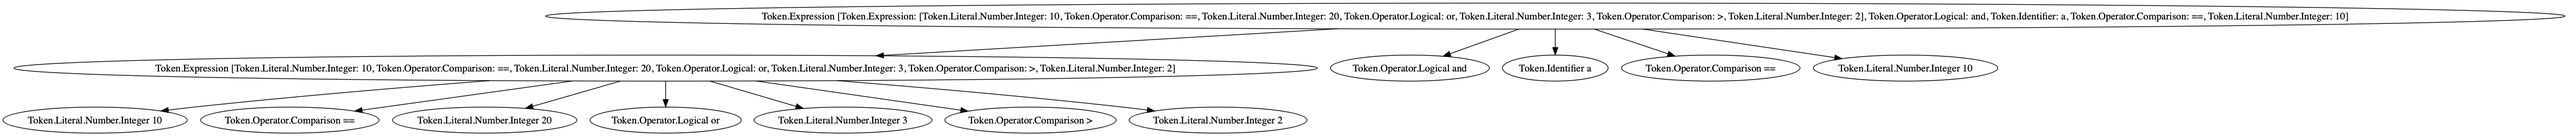
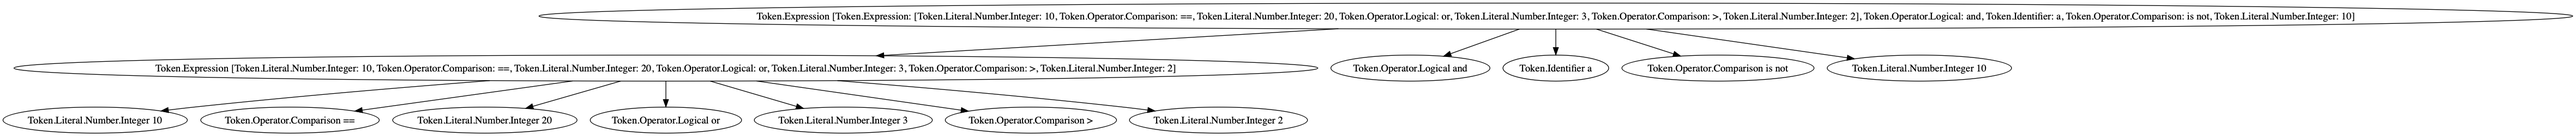
Add is not keyword to AimQL

diff --git a/aim/ql/tree/binary_expression_tree.py b/aim/ql/tree/binary_expression_tree.py
@@ -46,6 +46,8 @@ class BinaryExpressionTree(Tree):
                 return left_eval < right_eval
             elif self.is_node_comparison_operator(tree, 'is'):
                 return left_eval is right_eval
+            elif self.is_node_comparison_operator(tree, 'is not'):
+                return left_eval is not right_eval
             elif self.is_node_comparison_operator(tree, 'in'):
                 return left_eval in right_eval
             elif self.is_node_comparison_operator(tree, 'not in'):

diff --git a/examples/search/ql.py b/examples/search/ql.py
@@ -4,7 +4,7 @@ from aim.ql.grammar.expression import Expression
 
 
 parser = Expression()
-expr = parser.parse('(10 == 20 or 3 > 2) and a == 10')
+expr = parser.parse('(10 == 20 or 3 > 2) and a is not 10')
 
 ast = AbstractSyntaxTree()
 ast.build_from_expression(expr)
@@ -20,6 +20,6 @@ print(bet)
 print('=' * 75)
 
 match_res = bet.match({
-    'a': 10,
+    'a': 11,
 })
 print('Match:', match_res)

diff --git a/tests/ql/test_ql_match.py b/tests/ql/test_ql_match.py
@@ -26,6 +26,9 @@ class TestStatementMatch(unittest.TestCase):
 
             # NoneTypes
             'None is None': ({}, True),
+            'a is not None': ({}, True),
+            'b is not None': ({'b': None}, False),
+            'c is not None': ({'c': 10}, True),
             'a.a is None': ({}, True),
             'a is None': ({}, False),
             'b is None': ({'b': None}, True),

diff --git a/examples/search/search.py b/examples/search/search.py
@@ -1,11 +1,11 @@
 from aim.sdk import select
-from aim.engine.repo import AimRepo
-from aim.ql.grammar.statement import Statement
 
 
 if __name__ == '__main__':
     res = select('loss if '
                  'context.subset == train '
+                 'and run.hash == "35a6f076-e34c-11ea-9b10-8c8590970f67" '
+                 'and run.archived is True'
                  )
 
     print(res)

diff --git a/aim/ql/grammar/expression.py b/aim/ql/grammar/expression.py
@@ -61,6 +61,7 @@ class Expression(grammar.Grammar, Atom):
                 | "!="
                 | '<'
                 | '>'
+                | ["is" "not"]
                 | "is"
                 | "in"
                 | ["not" "in"]

diff --git a/CHANGELOG.md b/CHANGELOG.md
@@ -1,5 +1,7 @@
 # Changelog
 
+- Add `is not` keyword to AimQL (gorarakelyan)
+
 ## 2.0.7 Aug 21 2020
 - Validate Artifact values before storing (gorarakelyan)
 - Add sessions to SDK (gorarakelyan)
